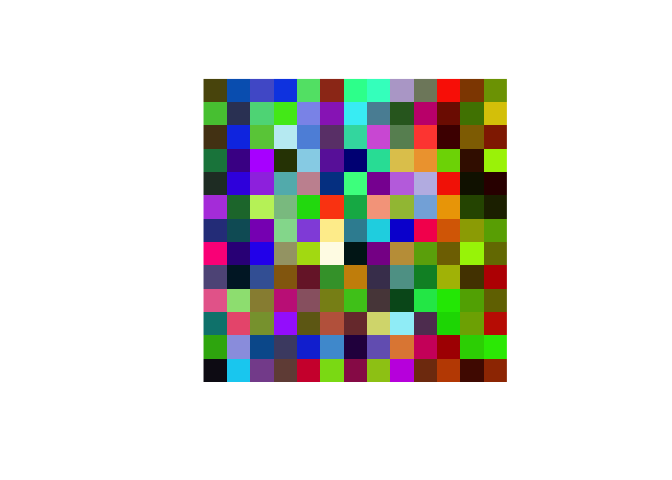
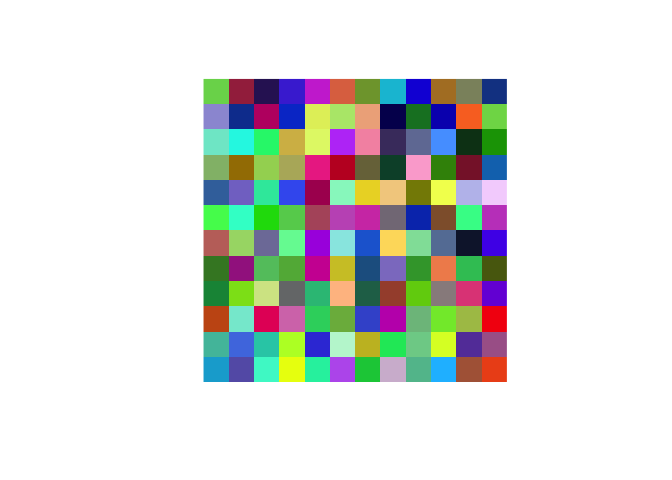
remove zstdlite dependency

Changed region(s): [[0.2812, 0.1562, 0.7812, 0.8125]]

diff --git a/README.md b/README.md
@@ -25,9 +25,8 @@ data to pass to a graphics device when using devices based upon
 ## What’s in the box
 
   - `encode_robj_to_bytes()`/`decode_bytes_to_robj` encode an arbitrary
-    R object to bytes using `base::serialize()`. This will also compress
-    the data if [zstdlite](https://github.com/coolbutuseless/zstdlite)
-    is installed.
+    R object to bytes using `base::serialize()` and
+    `base::memCompress()`
   - `encode_robj_to_png()`/`decode_png_to_robj` encode an arbitrary R
     object as a png
   - `encode_robj_to_raster()`/`decode_raster_to_robj` encode as a raster
@@ -42,7 +41,6 @@ You can install from
 
 ``` r
 # install.package('remotes')
-remotes::install_github('coolbutuseless/zstdlite') # suggested. but not mandatory.
 remotes::install_github('coolbutuseless/snowcrash')
 ```
 
@@ -53,9 +51,8 @@ bytes <- encode_robj_to_bytes(c(1, 2, 3))
 bytes
 ```
 
-    #>  [1] 5a 53 54 18 28 b5 2f fd 20 37 a5 01 00 74 02 58 0a 00 00 00 03 00 04 00 02
-    #> [26] 00 03 05 00 00 00 00 05 55 54 46 2d 38 00 00 00 0e 3f f0 00 00 40 08 00 00
-    #> [51] 00 00 00 00 04 04 01 2b 00 65 dc c4 f3 1c 03
+    #>  [1] 78 9c 73 e2 62 66 60 60 60 62 60 61 60 60 65 66 60 05 b2 43 43 dc 74 2d f8
+    #> [26] 80 0c 90 04 04 7c b0 87 32 1c 20 14 87 03 00 5c f8 03 7f
 
 ``` r
 decode_bytes_to_robj(bytes)
@@ -74,26 +71,19 @@ head(ras)
 ```
 
     #>      [,1]        [,2]        [,3]        [,4]        [,5]        [,6]       
-    #> [1,] "#5A550CFF" "#0064BDFF" "#5260D0FF" "#104EE6FF" "#5EE176FF" "#9D371CFF"
-    #> [2,] "#53C640FF" "#364065FF" "#5AD887FF" "#4BE71CFF" "#8C98EBFF" "#9A32C1FF"
-    #> [3,] "#543F18FF" "#1341E5FF" "#68CB46FF" "#C1EDF4FF" "#5E92DDFF" "#6C4279FF"
-    #> [4,] "#18834BFF" "#4B1695FF" "#B801FFFF" "#304003FF" "#96D4E9FF" "#6C28A9FF"
-    #> [5,] "#28392FFF" "#3E0CE2FF" "#A042E3FF" "#62B7B9FF" "#C7939FFF" "#014293FF"
-    #> [6,] "#B54CE0FF" "#207639FF" "#C0F068FF" "#8AC390FF" "#16DA0DFF" "#FD4B12FF"
+    #> [1,] "#78D65AFF" "#A42E4CFF" "#311C63FF" "#4937D7FF" "#CC3DD5FF" "#DF7350FF"
+    #> [2,] "#9C9AD7FF" "#103F9DFF" "#BE1E71FF" "#0A3FCFFF" "#E2EE68FF" "#B5E779FF"
+    #> [3,] "#7DE8CFFF" "#11F6E5FF" "#18F47AFF" "#D4BA54FF" "#E2F676FF" "#BD49F7FF"
+    #> [4,] "#92BB78FF" "#A37C01FF" "#A2D561FF" "#B6B36AFF" "#EC3792FF" "#C20228FF"
+    #> [5,] "#3D72AAFF" "#8376CCFF" "#2EE8AAFF" "#4061F0FF" "#AC015EFF" "#95F6C7FF"
+    #> [6,] "#4CF75CFF" "#2EFFCFFF" "#0EDB0AFF" "#64CF5CFF" "#B3586BFF" "#C45CC0FF"
     #>      [,7]        [,8]        [,9]        [,10]       [,11]       [,12]      
-    #> [1,] "#24FF9CFF" "#32FEC7FF" "#B8A9D0FF" "#7F886CFF" "#FB2A00FF" "#904700FF"
-    #> [2,] "#3CEEF6FF" "#598FA3FF" "#306627FF" "#C7187CFF" "#7F1600FF" "#508100FF"
-    #> [3,] "#36DBAEFF" "#D465DBFF" "#688F62FF" "#FF4D3FFF" "#4E0100FF" "#906D00FF"
-    #> [4,] "#001585FF" "#23DFA5FF" "#E1C85BFF" "#EFA33BFF" "#7BD600FF" "#3F1100FF"
-    #> [5,] "#40FF8EFF" "#8A10A0FF" "#C276E1FF" "#BFBBE6FF" "#F62C00FF" "#131500FF"
-    #> [6,] "#00B355FF" "#F6A58AFF" "#A1C042FF" "#84B1DEFF" "#EDA500FF" "#2E5400FF"
-    #>      [,13]      
-    #> [1,] "#7DA000FF"
-    #> [2,] "#DCC800FF"
-    #> [3,] "#922500FF"
-    #> [4,] "#A8F000FF"
-    #> [5,] "#340200FF"
-    #> [6,] "#242900FF"
+    #> [1,] "#7FA23AFF" "#09C0D8FF" "#1817DAFF" "#B17F2DFF" "#8C916DFF" "#164393FF"
+    #> [2,] "#EFAF8AFF" "#05055DFF" "#167F2AFF" "#0C10BBFF" "#F97329FF" "#7DD855FF"
+    #> [3,] "#F595B0FF" "#493B6DFF" "#717CA3FF" "#55A2FFFF" "#0C3D1AFF" "#15A003FF"
+    #> [4,] "#787248FF" "#084E35FF" "#FCADD3FF" "#3B8F09FF" "#881E35FF" "#1075BBFF"
+    #> [5,] "#EBD62DFF" "#F3CF8DFF" "#858903FF" "#F2FF5CFF" "#BEC0EDFF" "#F5D5FDFF"
+    #> [6,] "#D143B3FF" "#837A86FF" "#093ABAFF" "#905F38FF" "#39F996FF" "#C44CC5FF"
 
 ``` r
 plot(ras, interpolate = FALSE)
@@ -141,7 +131,7 @@ decode_rasterGrob_to_robj(raster_grob)
     #>     structure(list(lengths = diff(c(0L, i)), values = x[i]), 
     #>         class = "rle")
     #> }
-    #> <bytecode: 0x7fc64d8cd350>
+    #> <bytecode: 0x7fc977f3eb98>
     #> <environment: namespace:base>
 
 ## Encoding a `ggplot2` Object as a PNG image

diff --git a/NEWS.md b/NEWS.md
@@ -1,6 +1,10 @@
+# snowcrash 0.1.3 2020-09-20
+
+* Remove `zstdlite` (that package is not mature enough to be a dependency here)
+
 # snowcrash 0.1.2
 
-* When serializing with `base::serialize()` set `xdr = FALSE` for fast
+* When serializing with `base::serialize()` set `xdr = FALSE` for faster
   performance
 
 # snowcrash 0.1.1
